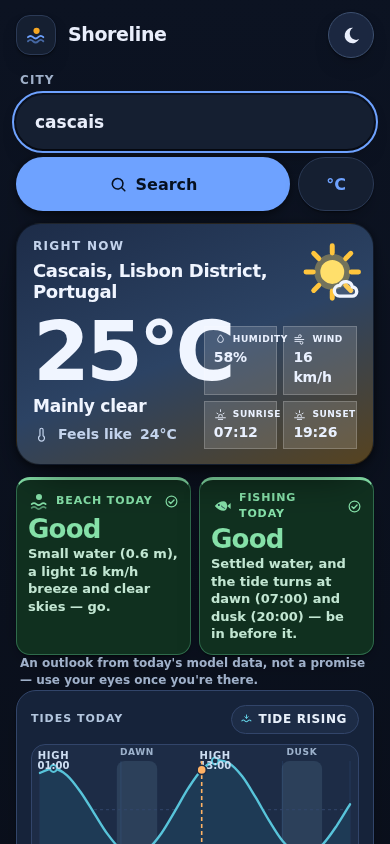
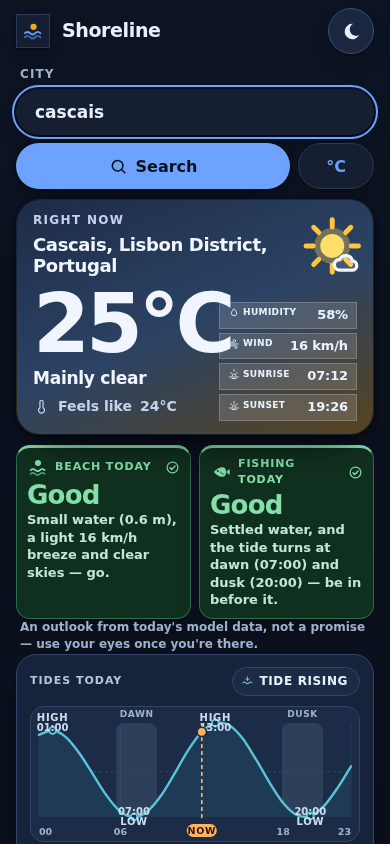
Coastal phone: full-width search field, chart above the fold
The previous commit squeezed the search into one row to buy room, which
left the field 149px wide — the invitation "Search a beach, harbour or
city" needs 303px, so the first screen asked a truncated question. The
field keeps the whole row again and the same ~60px comes off everything
else, one step at a time: controls 54->46px (still above the 44px tap
floor), header/hero paddings, shell gap, verdict-card and panel padding,
a 34px brand mark.

390x844 Cascais: verdict words end at 519/509, chart box 706-842 (whole
thing above the fold), hourly at 1358. 78 checks, water lint, design lint
and rules all green.

diff --git a/styles.css b/styles.css
@@ -825,8 +825,8 @@ html[data-theme="dark"] .hero[data-scene$="day"] .metric {
    phone breakpoint the coastal hero is wide enough for its own two-column layout. */
 @media (max-width: 619.98px) {
   .is-coastal .hero {
-    padding: 14px 16px 15px;
-    gap: 12px;
+    padding: 12px 16px 13px;
+    gap: 10px;
   }
   .is-coastal .hero .hero__top {
     align-items: center;
@@ -897,29 +897,39 @@ html[data-theme="dark"] .hero[data-scene$="day"] .metric {
     display: none;
   }
   body.is-coastal .app-header {
-    padding-top: 12px;
+    padding-top: 8px;
   }
-  /* The label stays visible — the brief asks for it — the field just gets tighter
-     padding, never below the 44px tap floor, and the whole form takes one row: the
-     verdicts below are what the first screen of a coastal place is for. */
+  /* The label stays visible — the brief asks for it — and the field keeps the whole
+     row, because the placeholder is the invitation ("Search a beach, harbour or
+     city") and it only reads as a question at full width. The room comes off the
+     control heights instead: 46px is still above the 44px tap floor. */
   body.is-coastal .search {
-    display: grid;
-    grid-template-columns: minmax(0, 1fr) auto;
-    align-items: end;
     gap: 8px;
   }
+  body.is-coastal .search__input,
+  body.is-coastal .search__submit,
+  body.is-coastal .unit-toggle {
+    min-height: 46px;
+    height: 46px;
+  }
   body.is-coastal .search__input {
-    padding-top: 11px;
-    padding-bottom: 11px;
+    padding-top: 10px;
+    padding-bottom: 10px;
   }
   body.is-coastal .search__actions {
     gap: 8px;
   }
   body.is-coastal .search__submit {
-    padding: 11px 14px;
+    padding: 10px 18px;
   }
   body.is-coastal .shell {
-    gap: 12px;
+    gap: 10px;
+  }
+  /* The brand mark is decoration, not a target, so it can sit one step smaller here. */
+  body.is-coastal .brand__mark {
+    width: 34px;
+    height: 34px;
+    border-radius: var(--radius-xs);
   }
   body.is-coastal .water__kicker {
     display: none;
@@ -929,6 +939,14 @@ html[data-theme="dark"] .hero[data-scene$="day"] .metric {
   }
   body.is-coastal .water__disclaimer {
     padding-top: 0;
+  }
+  /* The two verdict cards and the tide panel give a little padding, never below the
+     point where the reason text starts to crowd. */
+  body.is-coastal .rating {
+    padding: 8px 10px 9px;
+  }
+  body.is-coastal .water__panel {
+    padding: 12px 13px 13px;
   }
 }
 
